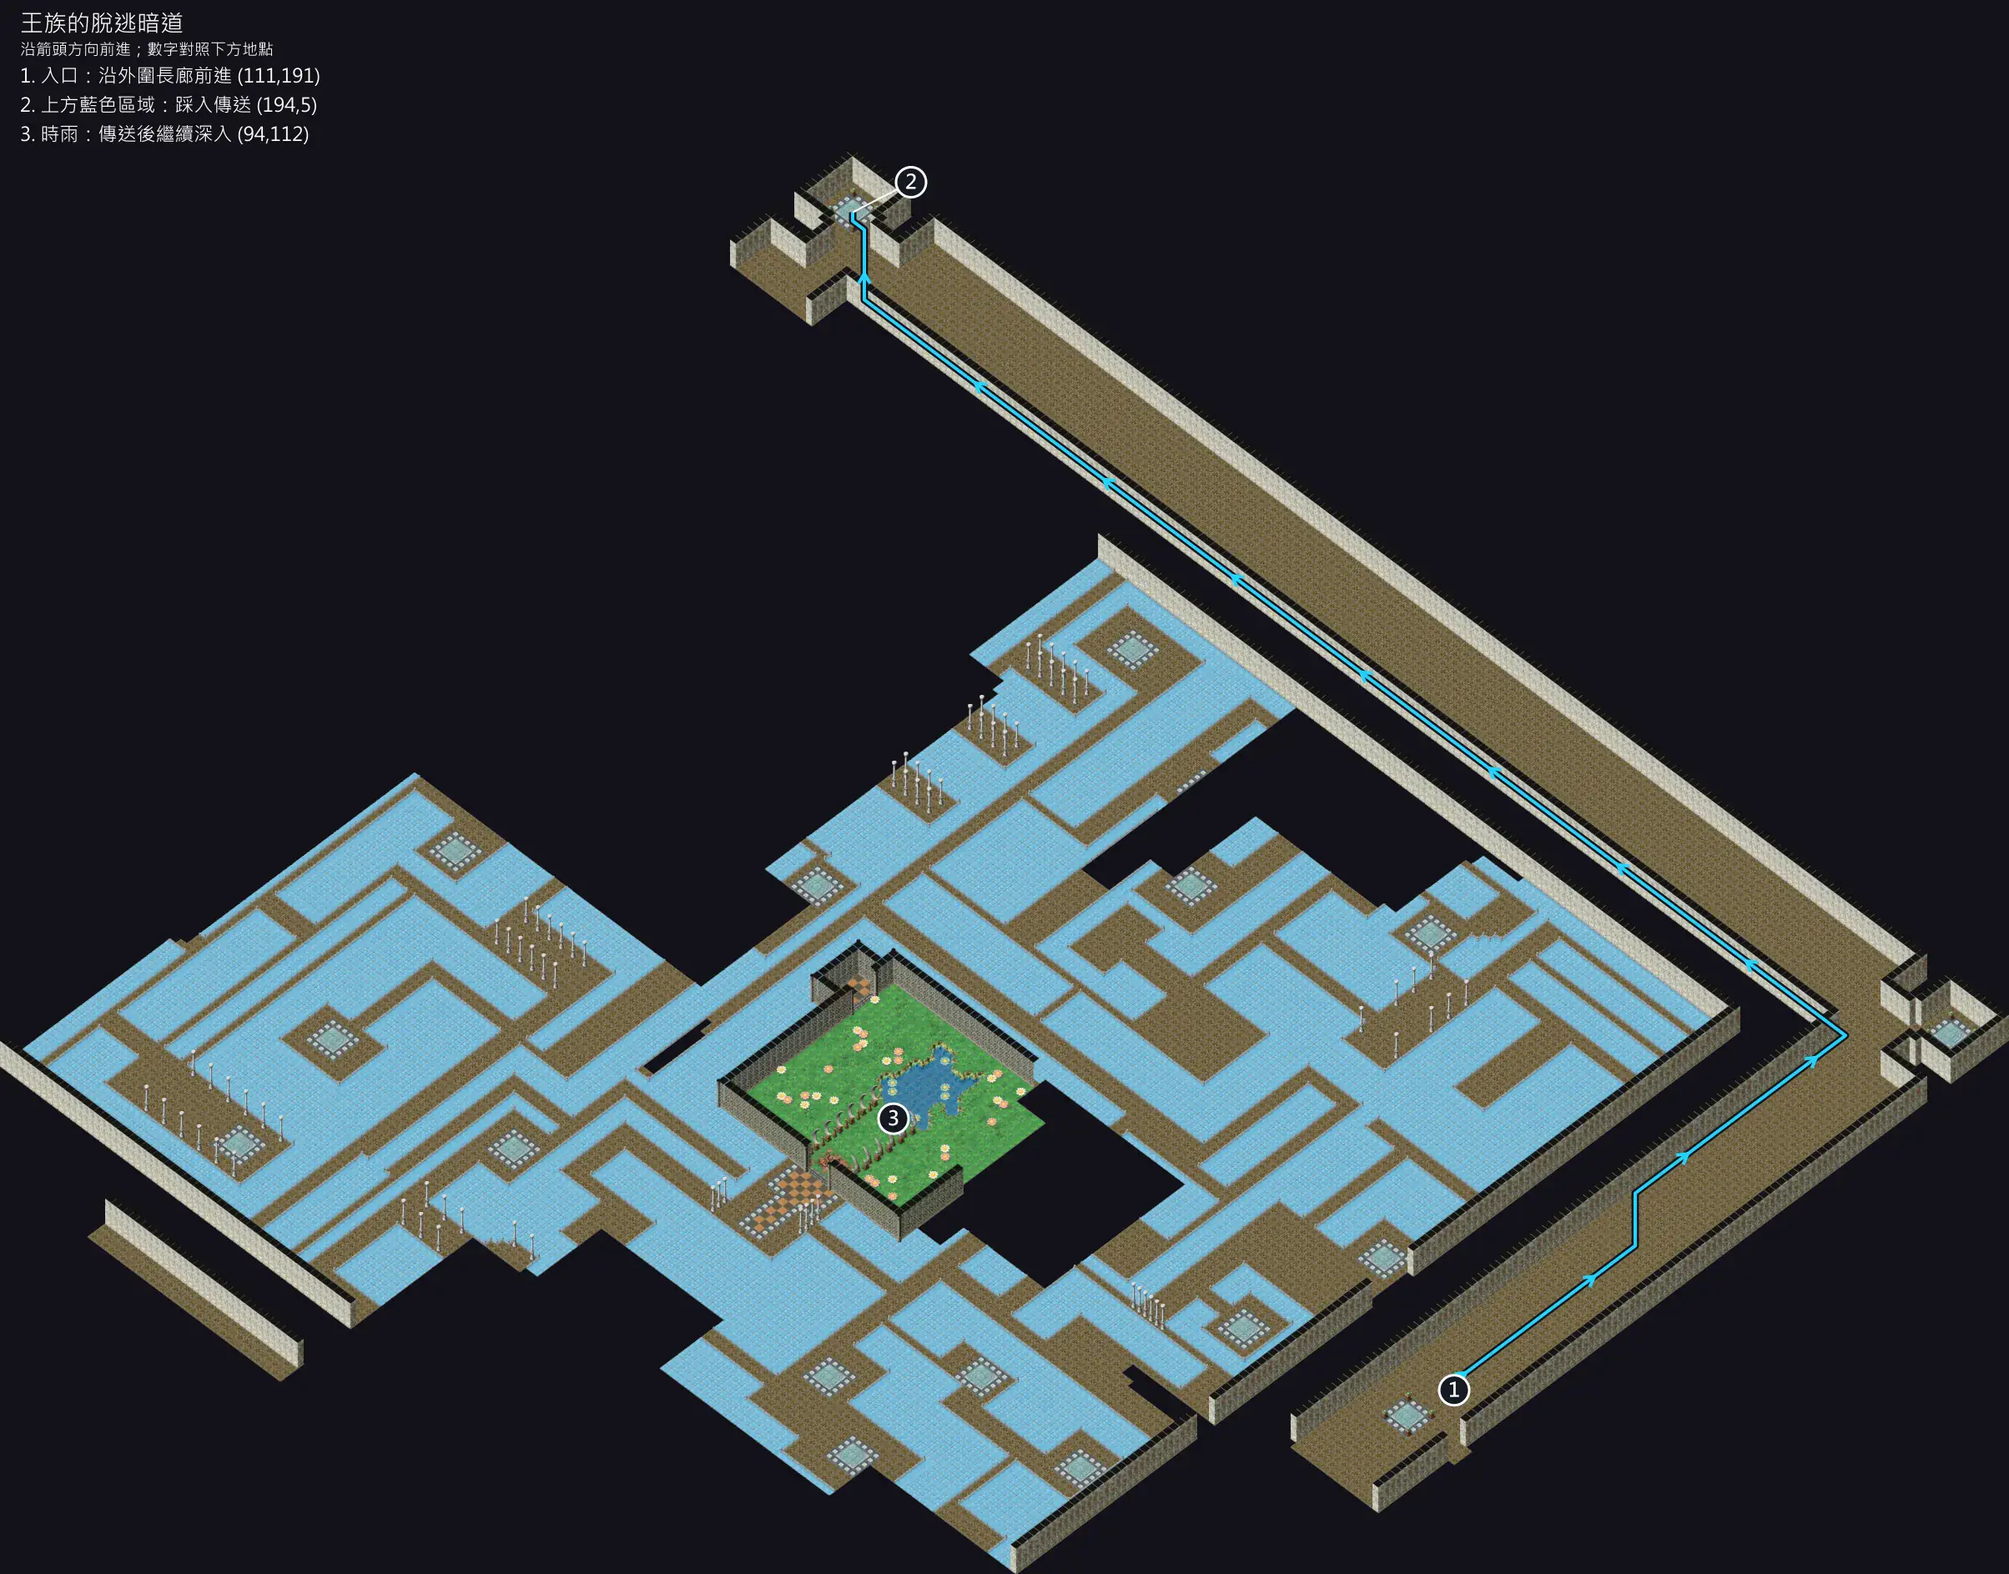
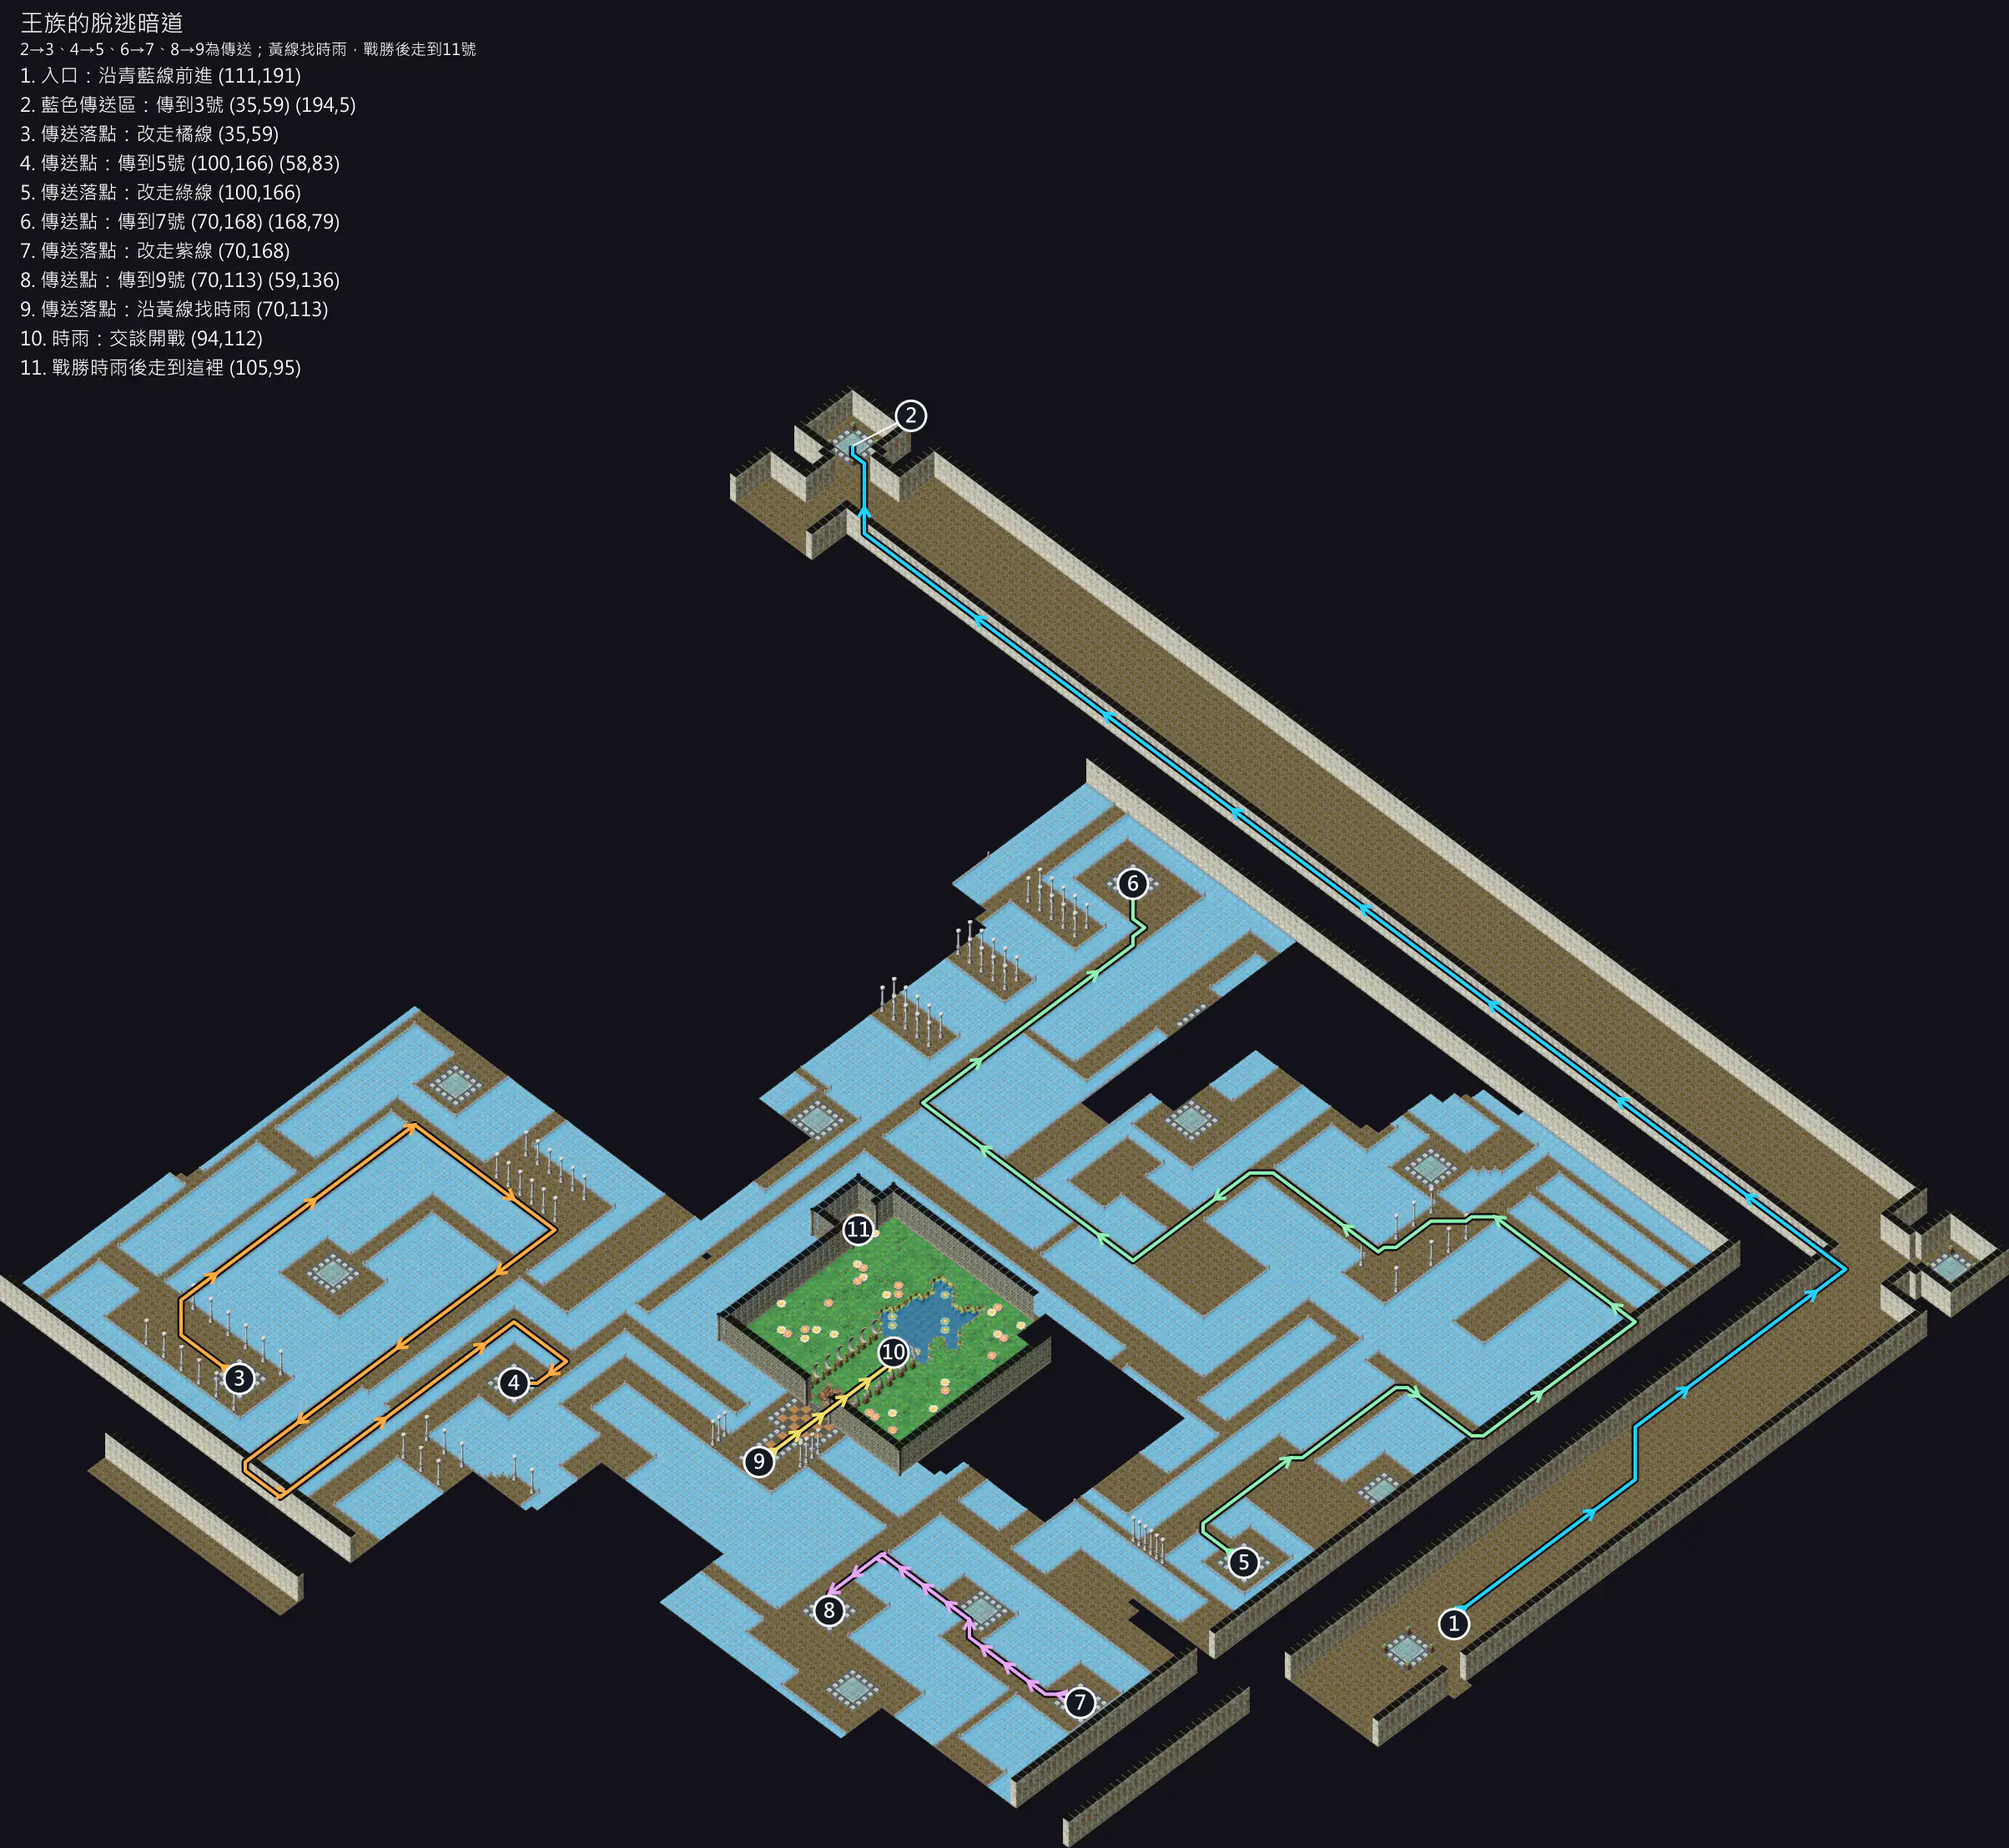
補齊五等勳章城內地下與王族暗道路線

Changed region(s): [[0.0, 0.0922, 1.0, 1.0], [0.0, 0.0, 0.218, 0.2152]]

diff --git a/content/pages/任務攻略/魔力任務/五等勳章.md b/content/pages/任務攻略/魔力任務/五等勳章.md
@@ -32,16 +32,36 @@ breadcrumb:
 
 ### 1. 接任務、取得王族之印
 
-在阿凱魯法村找**衛兵卡吉納 `(134,113)`**，答應調查；進入阿凱魯法城 `(183,104)`，找**倫達國王 `(24,20)`**取得王族之印。接著由城內地下前往王族的脫逃暗道。
+在阿凱魯法村找**衛兵卡吉納** `(134,113)`，答應調查；到阿凱魯法城的謁見之間，找**倫達國王** `(24,20)` 取得**王族之印**。自行進城時，入口在村內 `(183,104)`。
+
+#### 城內地下怎麼去？
+
+1. 領印後，從謁見之間南側 `(25,43)` 離開到二樓，再走 `(24,8)` 下到**一樓 `(25,11)`**。
+2. 在一樓往東側走，找 **`(42,21)` 的下樓梯**，進入阿凱魯法城地下。**不要走 `(37,29)` 那座樓梯**，那是往禮拜堂方向的另一處地下。
+3. 下樓抵達 `(44,20)` 後，沿走道到另一端，找**士兵布羅** `(12,6)` 交談。持有王族之印即可進入**王族的脫逃暗道**，接下節圖中的 1 號入口。
+
+<a href="/img/pages/任務攻略/魔力任務/五等勳章/castle-basement-linked.webp"><img src="/img/pages/任務攻略/魔力任務/五等勳章/preview/castle-basement-linked.webp" alt="阿凱魯法城一樓東側樓梯與地下士兵布羅的連續路線圖" width="1000" height="1500" loading="lazy" decoding="async" /></a>
+
+<details>
+<summary>展開一樓與地下完整地圖（含容易走錯的樓梯）</summary>
+
+<a href="/img/pages/任務攻略/魔力任務/五等勳章/castle-to-basement.webp"><img src="/img/pages/任務攻略/魔力任務/五等勳章/preview/castle-to-basement.webp" alt="阿凱魯法城一樓：東側地下入口與往禮拜堂的另一座樓梯" width="1000" height="933" loading="lazy" decoding="async" /></a>
+
+<a href="/img/pages/任務攻略/魔力任務/五等勳章/basement-guard.webp"><img src="/img/pages/任務攻略/魔力任務/五等勳章/preview/basement-guard.webp" alt="阿凱魯法城地下：沿走道找士兵布羅交談" width="1000" height="611" loading="lazy" decoding="async" /></a>
+
+</details>
 
 ### 2. 王族暗道與時雨
 
-1. 進入暗道後，從圖中 **1 號入口 `(111,191)`** 出發，沿外圍長廊繞到圖的上方。
-2. 走到 **2 號藍色傳送區 `(194,5)`**，踩入藍色區域傳送。不要朝中央的時雨位置直接走，必須先經過這個傳送區。
-3. 傳送後繼續深入暗道，目標是圖中 **3 號時雨 `(94,112)`**。下圖箭頭畫到藍色傳送區為止；傳送後到時雨之間的轉點走法尚待補充。
-4. 與時雨交談開戰，敵方另有 7 名忍者。擊敗後會進入「王族用脫逃暗道 西方」。
+1. 從圖中 **1 號入口** `(111,191)` 出發，沿青藍線繞過外圍長廊，到 **2 號藍色傳送區** `(194,5)`。
+2. 踩入藍色區域，會傳送到 **3 號** `(35,59)`。這段是傳送，不是沿長廊走過去。
+3. 從 `(35,59)` 改沿**橘線**步行，繞到 **4 號傳送點** `(58,83)`。
+4. 踩入 `(58,83)`，傳送到 **5 號** `(100,166)`，再沿**綠線**步行到 **6 號傳送點** `(168,79)`。
+5. 踩入 `(168,79)`，傳送到 **7 號** `(70,168)`，再沿**紫線**步行到 **8 號傳送點** `(59,136)`。
+6. 踩入 `(59,136)`，傳送到 **9 號** `(70,113)`，最後沿**黃線**走到 **10 號時雨** `(94,112)` 面前。
+7. 與時雨交談開戰，敵方另有 7 名忍者。戰勝後走到 **11 號** `(105,95)`。
 
-<a href="/img/pages/任務攻略/魔力任務/五等勳章/33118.webp"><img src="/img/pages/任務攻略/魔力任務/五等勳章/33118.webp" alt="王族暗道：從1號入口沿外圍長廊走到2號上方藍色區域傳送，3號為時雨位置" width="2408" height="1887" loading="lazy" decoding="async" /></a>
+<a href="/img/pages/任務攻略/魔力任務/五等勳章/33118.webp"><img src="/img/pages/任務攻略/魔力任務/五等勳章/preview/33118.webp" alt="王族暗道走法：四次傳送後沿黃線找時雨94,112，戰勝後走到11號105,95" width="1000" height="920" loading="lazy" decoding="async" /></a>
 
 ### 3. 穿過西方、東方暗道
 
@@ -131,4 +151,7 @@ breadcrumb:
 
 - [御劍軒：五等勳章－大樹調查](https://cgsword.com/Mission411.htm)：任務架構、接任 NPC、上樓樓梯與兩國分歧。
 - [蔚藍幻境：大樹調查（五等勳章）](https://cg.skyey.tw/errand/mcaa09.htm)：流程交叉核對、任務道具限制。
+- [17173：返魂之珠](https://cg.17173.com/content/2023-07-02/20230702002119448.shtml)：一樓東側下樓梯與地下士兵布羅的位置。
+- [蔚藍幻境：王族暗道轉點參考圖](https://cg.skyey.tw/images/map/errand/mga09m01.gif)。
 - 2026-09-25：依玩家補充，加入王族暗道「入口 → 上方藍色區域傳送」走法與箭頭，整理大樹往返及領獎提醒。
+- 2026-09-28：補上城內地下入口，以及王族暗道四次傳送的落點與前往時雨的完整路線。
